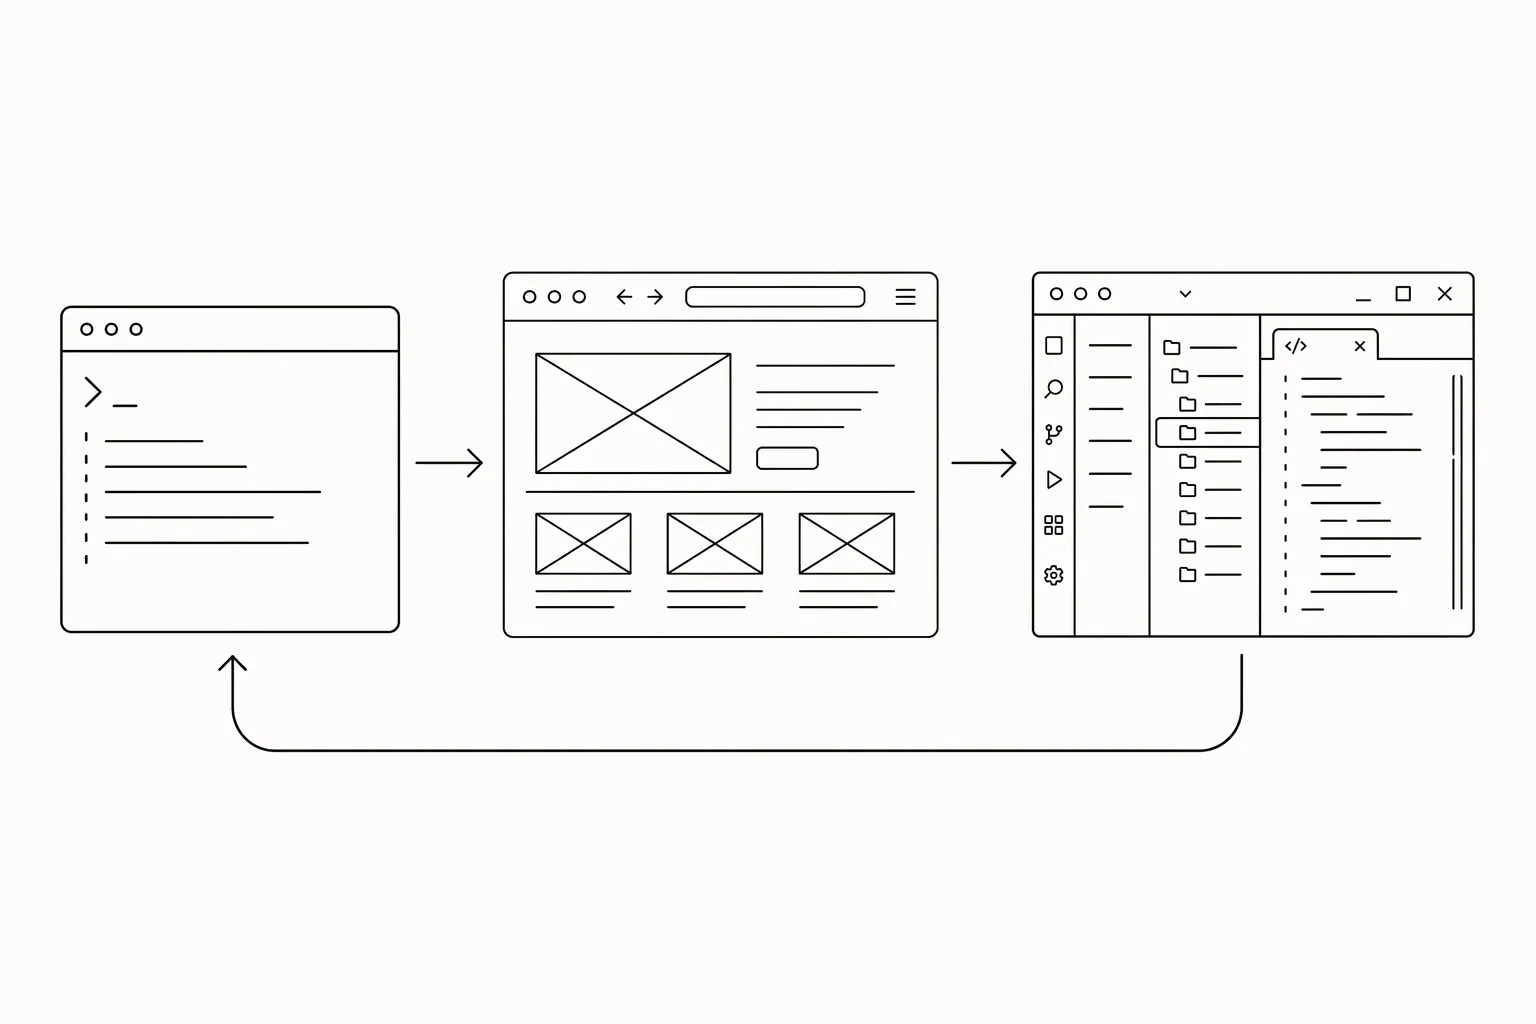
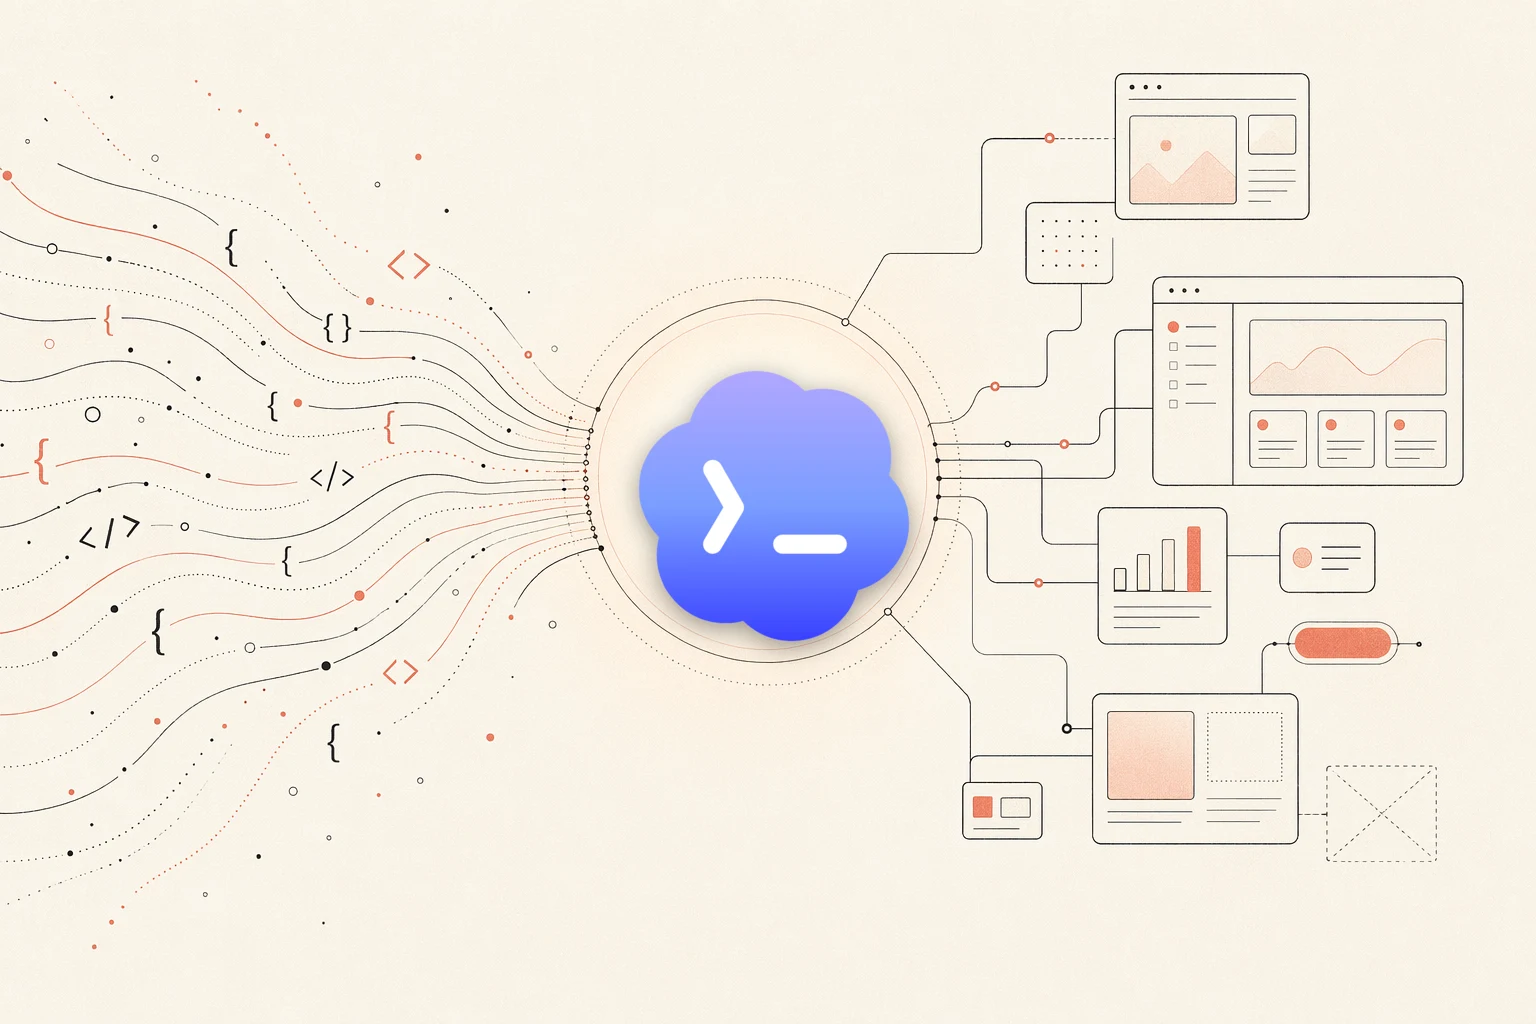
feat(landing-page): rework agent pages into a single-column rich layout with hero illustrations
Replace the two-column hero band with one centered full-measure column so
the heading, hero banner, and body all share a single left and right edge,
instead of stranding prose in a narrow left-aligned column while the heading
wrapped mid-word. Widen the body to fill the measure and justify it.

Drop the inherited 70ch max-width caps that were also catching the
solution-page how-to steps, FAQ list, and template/system grids, so they
fill the section width instead of stranding at ~707px on /solutions/ pages.

Swap the placeholder line-art for warm editorial hero illustrations whose
central hub carries the agent's real mark (the official OpenAI Codex emblem
fused into the artwork), so the page is identifiable at a glance rather than
relying on a pasted-on logo badge.

diff --git a/apps/landing-page/app/sub-pages.css b/apps/landing-page/app/sub-pages.css
@@ -2498,3 +2498,83 @@ dialog.tpl-share-popover .detail-share-dialog-text {
  * tight when it directly precedes a fact list in the same section. */
 .solution-page .info-section .agent-steps + ul,
 .solution-page .info-section .agent-steps + ol { margin-top: 2px; }
+
+/* ---------------------------------------------------------------------------
+ * Solution + agent pages: single-column text content fills the section and
+ * lines up with the full-width hero / feature rows / tables / template grid,
+ * instead of stranding in a ~707px column pinned hard left (the 70ch ul/ol
+ * prose cap above is meant for genuine bullet lists but also catches the FAQ
+ * list and how-to steps, which should fill). Prose is justified so both edges
+ * sit flush. Genuine prose bullet lists keep the readable 70ch measure.
+ * ------------------------------------------------------------------------- */
+.solution-page .info-section > p,
+.solution-page .info-section .faq-list,
+.solution-page .info-section .solution-steps,
+.solution-page .solution-step-text p { max-width: none; }
+.solution-page .info-section > p {
+  text-align: justify;
+  text-justify: inter-character;
+}
+/* Let the step's text column grow to the section's right edge so the step body
+ * lines up with the FAQ rows and the feature/compare tables above and below. */
+.solution-page .solution-step-text { flex: 1 1 auto; min-width: 0; }
+/* The template grid inherits the narrow ~706px cap from the catalog `.tpl-grid`
+ * (built for the dense /templates/ index), which strands its three columns in
+ * the left half of the wide solution canvas. Drop the cap so the grid fills the
+ * section and its cards line up with everything else. */
+.solution-page .info-section ul.solution-tpl-grid,
+.solution-page .info-section ul.solution-system-grid { max-width: none; }
+
+/* ---------------------------------------------------------------------------
+ * Agent rich page is a long-form ARTICLE, not a solution marketing page: ONE
+ * centered single-column measure for everything — heading, hero banner, intro,
+ * TOC, how-to sections, FAQ, CTA all share the same width and the same left
+ * edge. This avoids the two failure modes of a wide solution canvas: prose
+ * stranded in a narrow column pinned hard left (huge empty right), and a wide
+ * 2-column hero whose heading wraps mid-word and whose left edge doesn't line
+ * up with the narrower body below it.
+ * ------------------------------------------------------------------------- */
+.info-page.solution-page.agent-rich {
+  max-width: 1080px;
+  margin-inline: auto;
+}
+/* Everything fills the single measure — drop the inherited 70ch prose caps
+ * (.info-page p, .solution-page .info-section > p) so the intro, section
+ * paragraphs, and lists all reach the column's right edge and line up with the
+ * full-width hero banner instead of re-stranding in a ~640px column. */
+.agent-rich .agent-intro p,
+.agent-rich .info-section > p,
+.agent-rich .info-section ul,
+.agent-rich .info-section ol { max-width: none; }
+
+/* Justify body prose so both the left AND right edge sit flush — the ragged
+ * right edge of plain left-aligned text reads as sloppy for CJK copy. Lists
+ * and captions stay left-aligned (their markers want a hard left edge). */
+.agent-rich .agent-intro p,
+.agent-rich .info-section > p {
+  text-align: justify;
+  text-justify: inter-character;
+}
+
+/* Header fills the full measure too — override the shared .catalog-head 880px
+ * cap and its 720px lead cap so the heading, lead, hero banner, and body all
+ * share one left edge and one right edge. Nothing in the article is narrower
+ * than anything else. */
+.agent-rich-head { margin-bottom: 4px; max-width: none; }
+.agent-rich-head .lead { max-width: none; }
+
+/* Hero banner: full-width editorial illustration under the header. The agent's
+ * own mark is baked into the illustration's central hub, so no overlay needed. */
+.agent-hero-banner {
+  margin: 28px 0 6px;
+}
+.agent-hero-banner > img {
+  display: block;
+  width: 100%;
+  height: auto;
+  aspect-ratio: 16 / 9;
+  object-fit: cover;
+  border: 1px solid var(--line);
+  border-radius: 14px;
+  background: var(--paper-warm);
+}